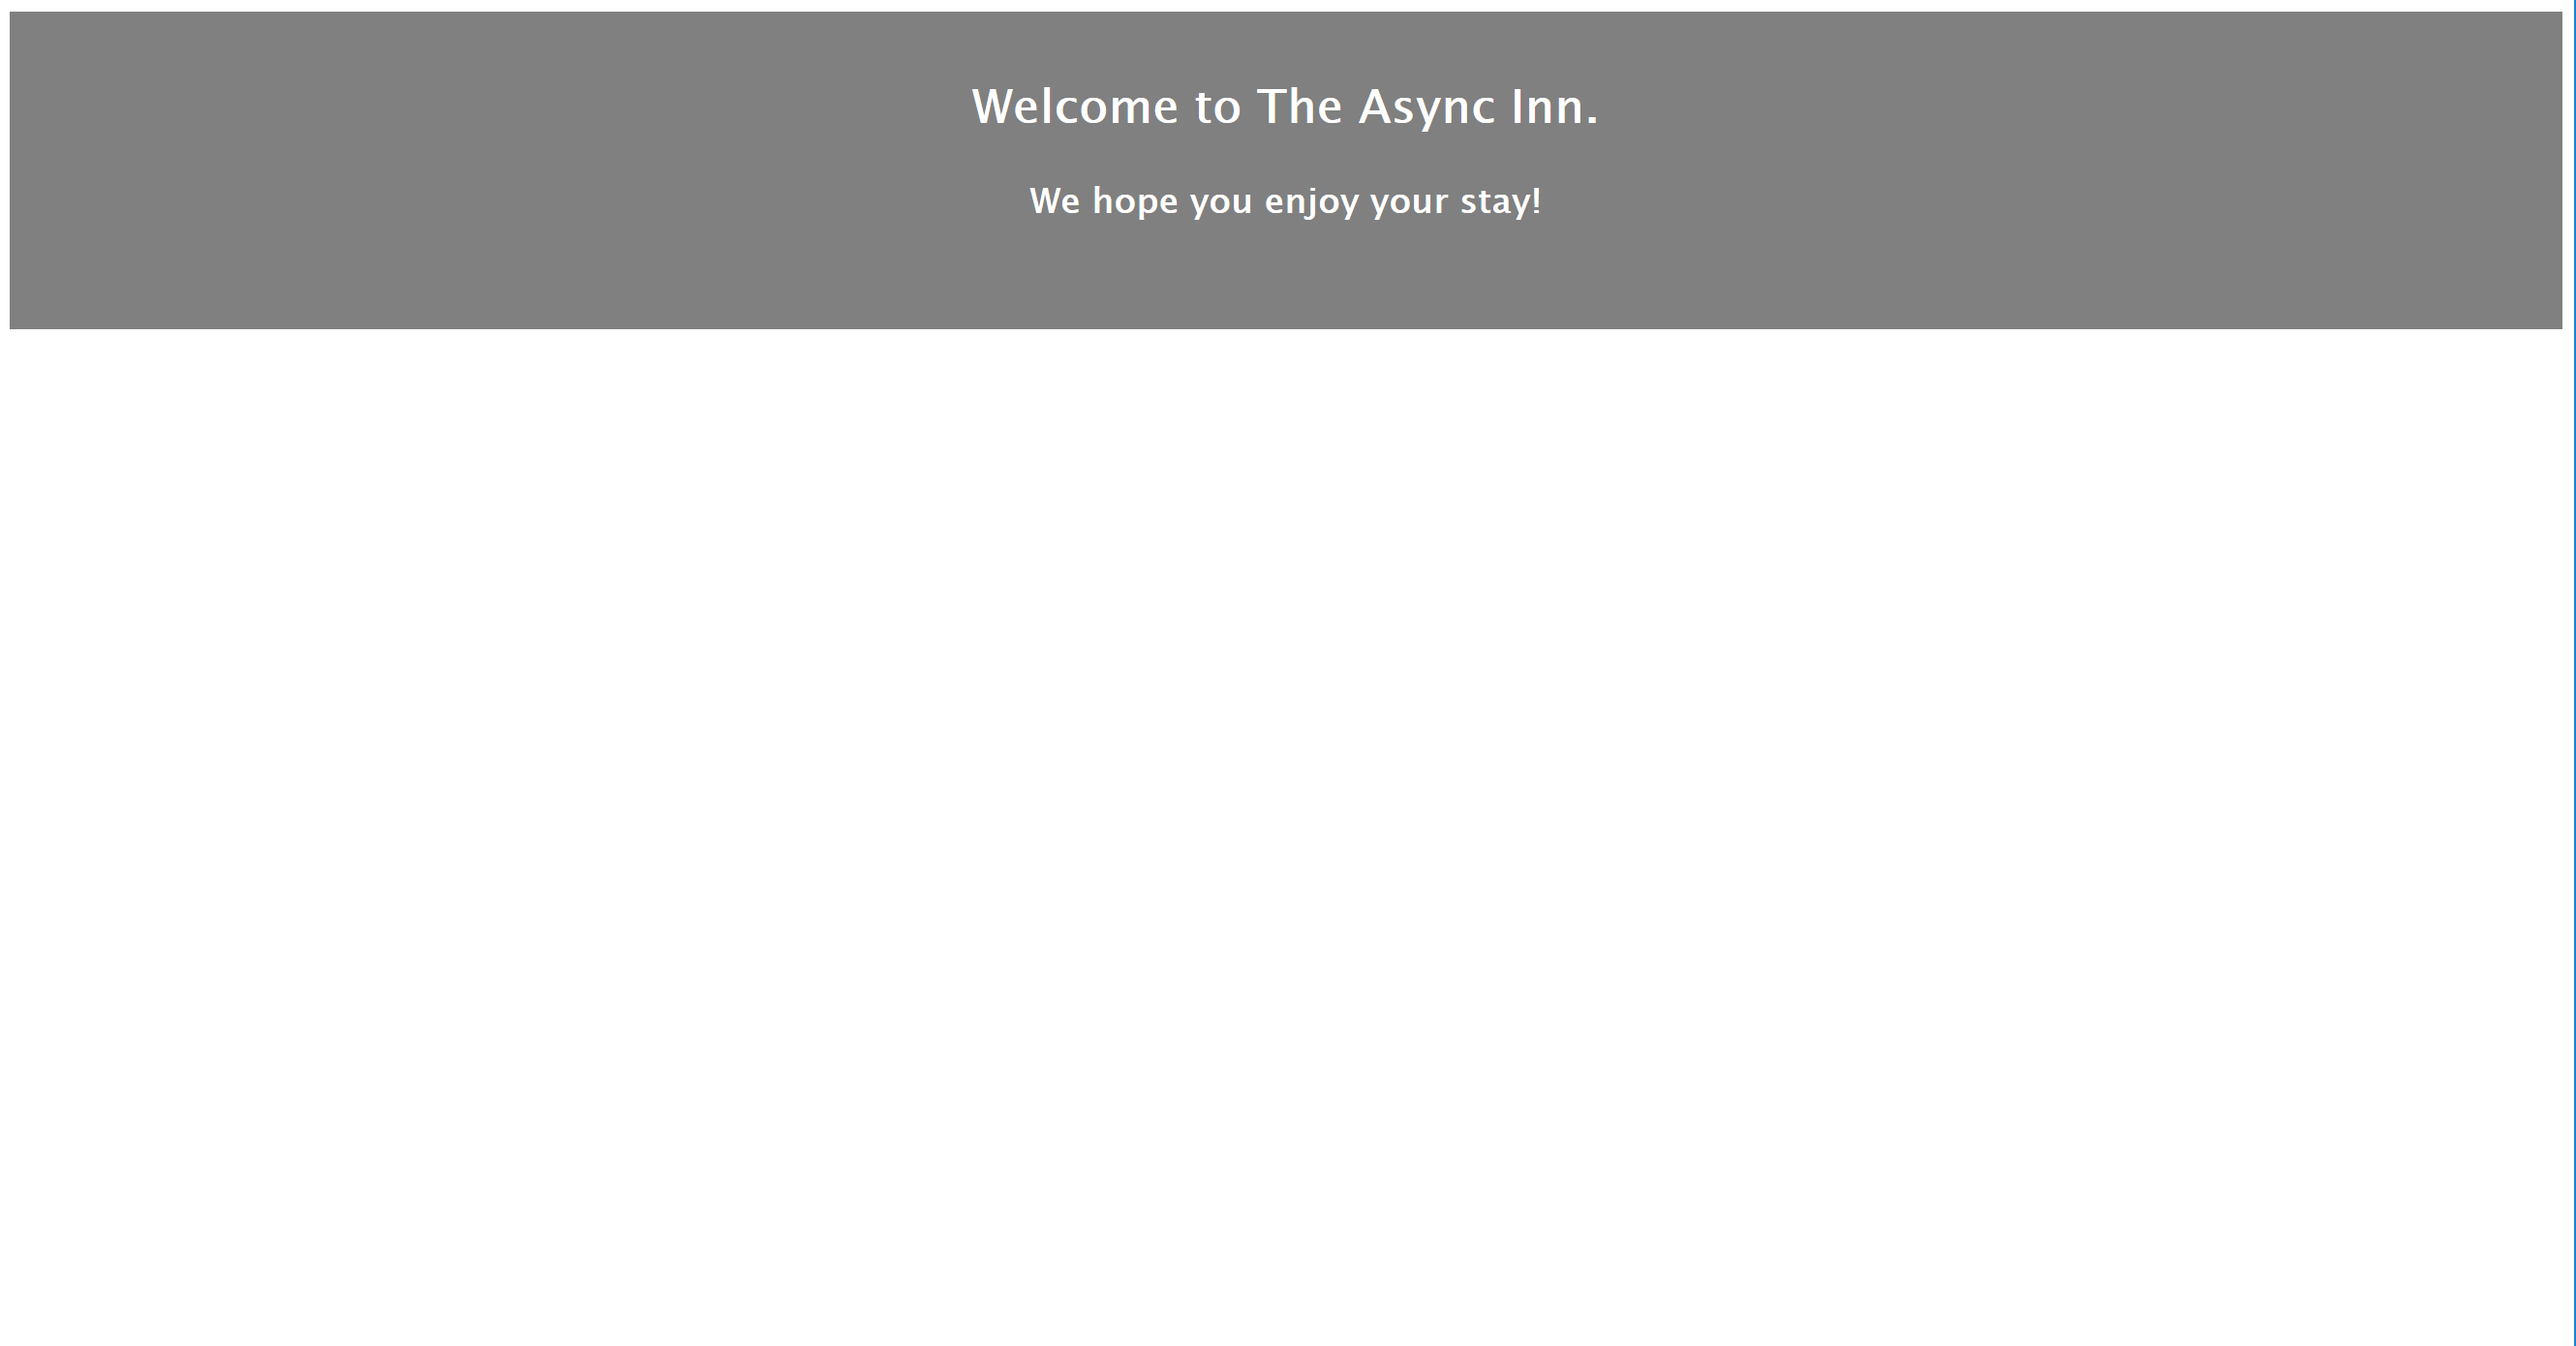
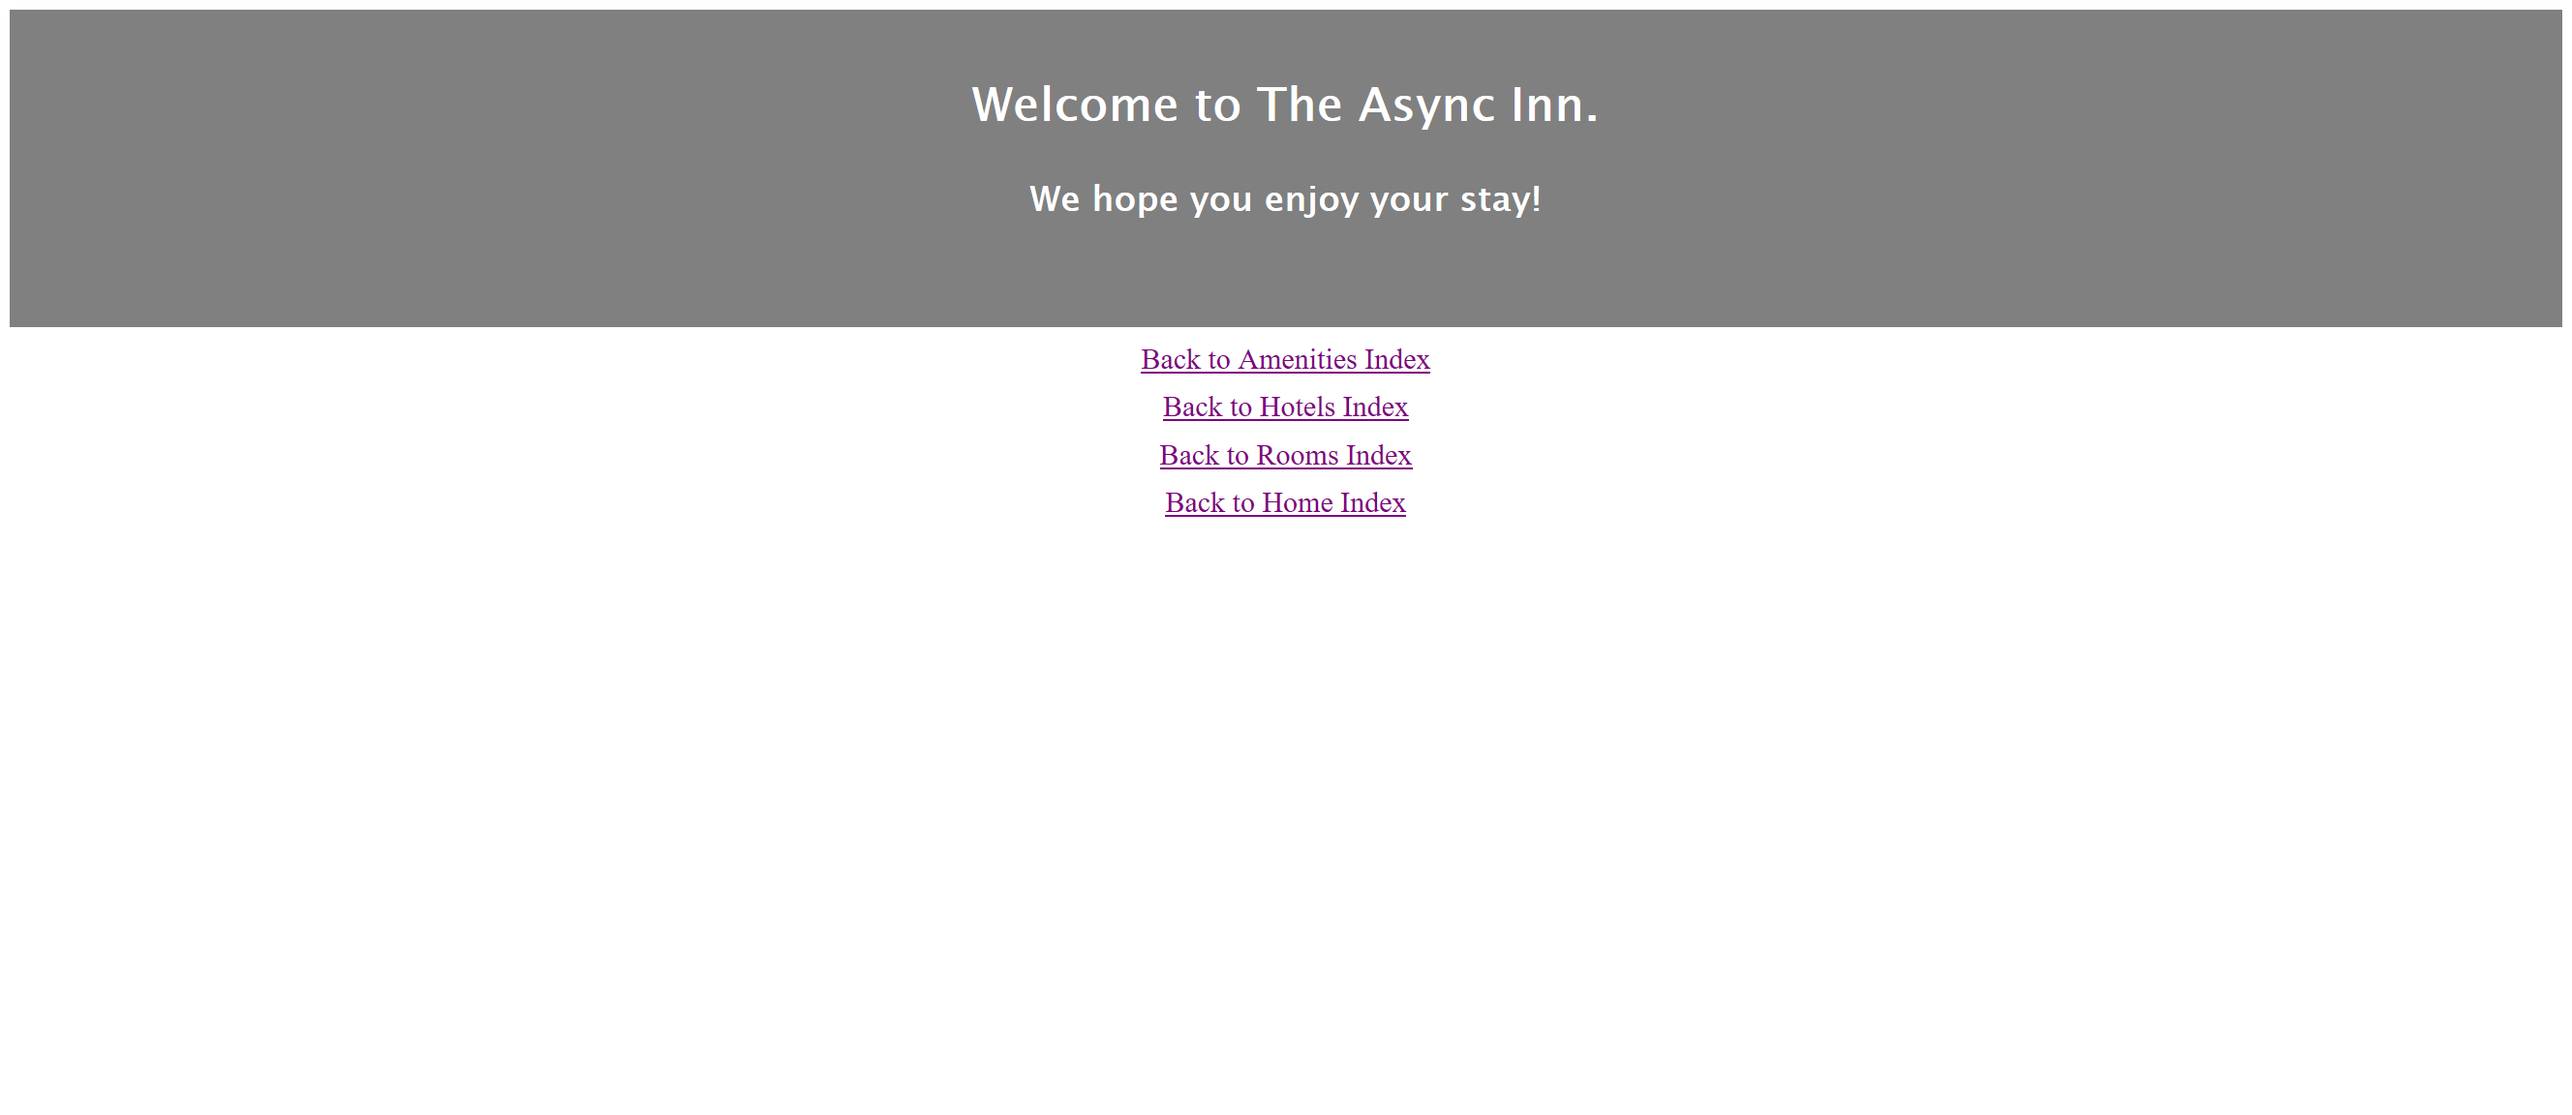
Update README

Changed region(s): [[0.0, 0.2188, 1.0, 0.4688], [0.375, 0.0625, 0.625, 0.1875]]

diff --git a/Async-Inn/wwwroot/StyleSheet.css b/Async-Inn/wwwroot/StyleSheet.css
@@ -10,3 +10,11 @@ header {
     padding: 20px;
     padding-bottom: 50px;
 }
+
+nav a {
+    font-family: 'Global Sans Serif';
+    display: block;
+    text-align: center;
+    margin: 10px;
+    font-size: 20px;
+}

diff --git a/Async-Inn/Migrations/20181026050316_initial.Designer.cs b/Async-Inn/Migrations/20181026050316_initial.Designer.cs
@@ -10,8 +10,8 @@ using Microsoft.EntityFrameworkCore.Storage.ValueConversion;
 namespace AsyncInn.Migrations
 {
     [DbContext(typeof(AsyncInnDbContext))]
-    [Migration("20181025190116_secondMigration")]
-    partial class secondMigration
+    [Migration("20181026050316_initial")]
+    partial class initial
     {
         protected override void BuildTargetModel(ModelBuilder modelBuilder)
         {
@@ -27,7 +27,7 @@ namespace AsyncInn.Migrations
                         .ValueGeneratedOnAdd()
                         .HasAnnotation("SqlServer:ValueGenerationStrategy", SqlServerValueGenerationStrategy.IdentityColumn);
 
-                    b.Property<string>("String");
+                    b.Property<string>("Name");
 
                     b.HasKey("ID");
 

diff --git a/Async-Inn/Migrations/20181026050316_initial.cs b/Async-Inn/Migrations/20181026050316_initial.cs
@@ -3,7 +3,7 @@ using Microsoft.EntityFrameworkCore.Migrations;
 
 namespace AsyncInn.Migrations
 {
-    public partial class secondMigration : Migration
+    public partial class initial : Migration
     {
         protected override void Up(MigrationBuilder migrationBuilder)
         {
@@ -13,7 +13,7 @@ namespace AsyncInn.Migrations
                 {
                     ID = table.Column<int>(nullable: false)
                         .Annotation("SqlServer:ValueGenerationStrategy", SqlServerValueGenerationStrategy.IdentityColumn),
-                    String = table.Column<string>(nullable: true)
+                    Name = table.Column<string>(nullable: true)
                 },
                 constraints: table =>
                 {

diff --git a/Async-Inn/Data/AsyncInnDbContext.cs b/Async-Inn/Data/AsyncInnDbContext.cs
@@ -18,12 +18,12 @@ namespace AsyncInn.Data
                 );
             modelBuilder.Entity<RoomAmenities>().HasKey(
                 ce => new { ce.RoomID, ce.AmenityID }
-    );
+                );
         }
 
         public DbSet<Hotel> Hotels { get; set; }
         public DbSet<Room> Rooms { get; set; }
         public DbSet<HotelRooms> HotelRooms { get; set; }
-        public DbSet<AsyncInn.Models.Amenity> Amenity { get; set; }
+        public DbSet<Amenity> Amenity { get; set; }
     }
 }

diff --git a/Async-Inn/Migrations/AsyncInnDbContextModelSnapshot.cs b/Async-Inn/Migrations/AsyncInnDbContextModelSnapshot.cs
@@ -25,7 +25,7 @@ namespace AsyncInn.Migrations
                         .ValueGeneratedOnAdd()
                         .HasAnnotation("SqlServer:ValueGenerationStrategy", SqlServerValueGenerationStrategy.IdentityColumn);
 
-                    b.Property<string>("String");
+                    b.Property<string>("Name");
 
                     b.HasKey("ID");
 

diff --git a/Async-Inn/Models/Amenity.cs b/Async-Inn/Models/Amenity.cs
@@ -9,7 +9,7 @@ namespace AsyncInn.Models
     {
         // Model props
         public int ID { get; set; }
-        public string String { get; set; }
+        public string Name { get; set; }
 
         // Navigation properties
         public ICollection<RoomAmenities> RoomAmenities { get; set; }
